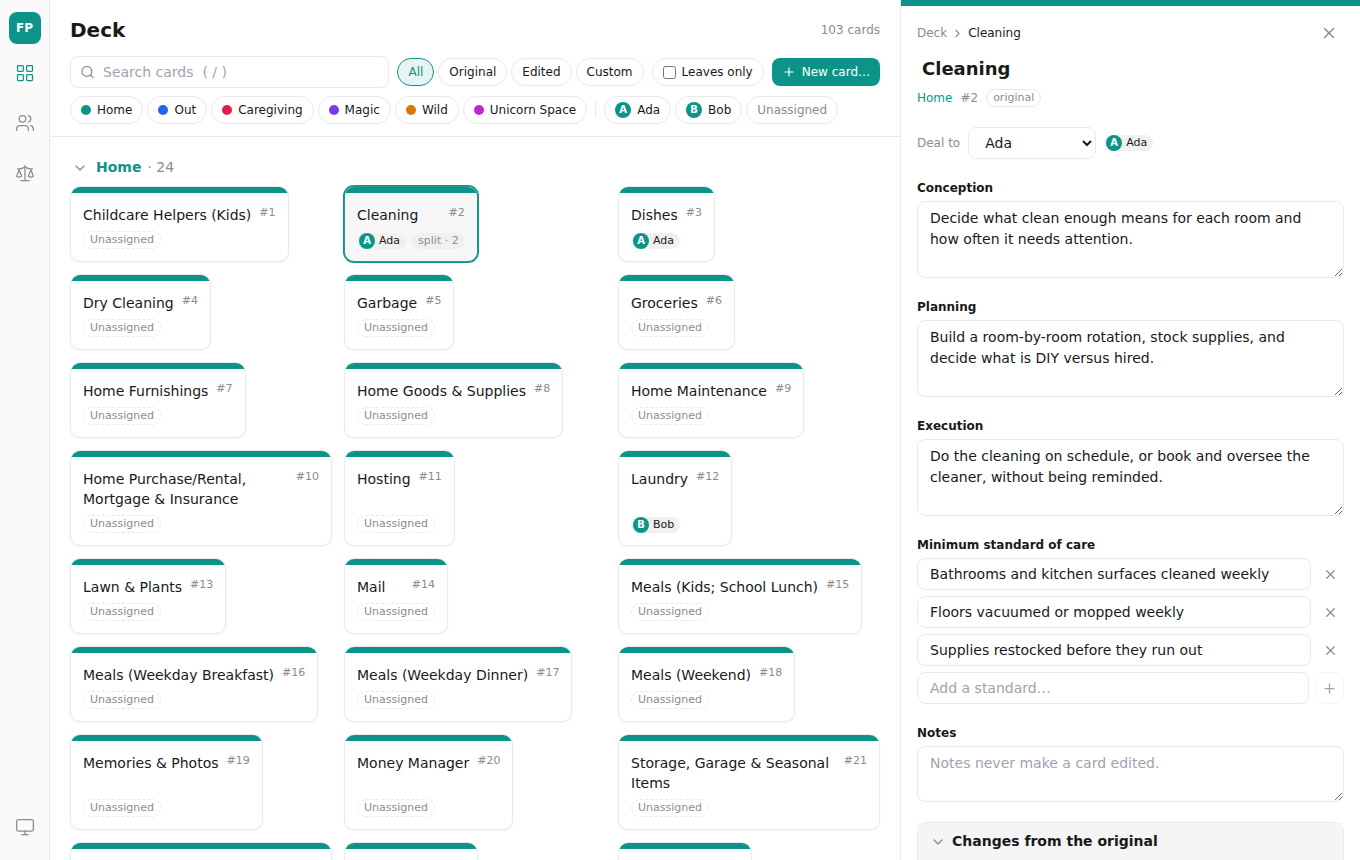
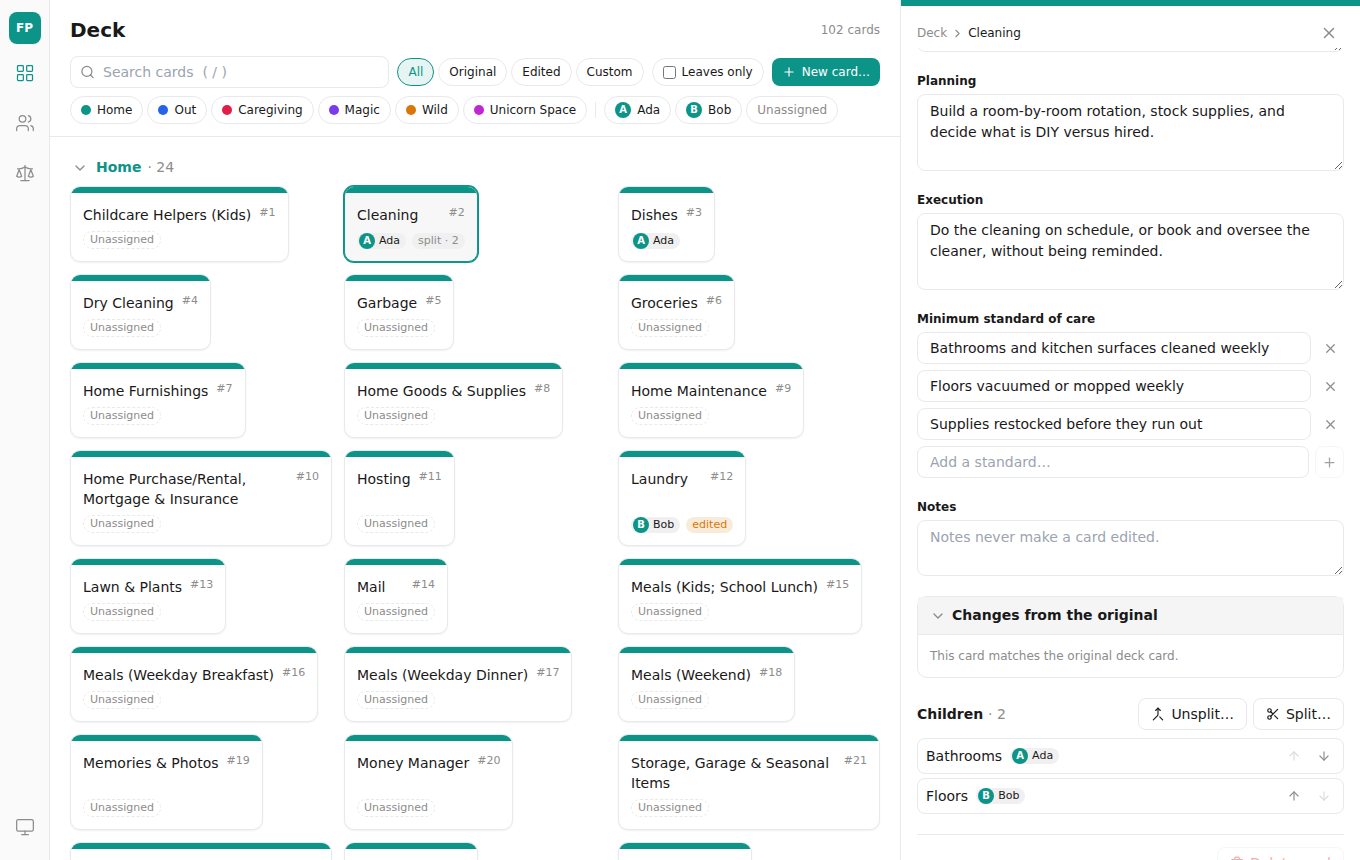
test(rusty_fair_play/web): two tabs, one card, against the real binary; fresh screenshots
Claude-Session: https://claude.ai/code/session_01XZc4rZM6uXrkFSVnLkc54z

diff --git a/crates/apps/rusty_fair_play/web/e2e/flows.spec.ts b/crates/apps/rusty_fair_play/web/e2e/flows.spec.ts
@@ -186,3 +186,46 @@ test('re-parent and re-suit, split, reorder, unsplit, delete a card, and remove 
   await page.reload()
   await expect(page.getByRole('list', { name: 'People' }).getByRole('listitem')).toHaveCount(2)
 })
+
+test('two tabs edit the same card: the second save is refused, its draft is kept, and Overwrite takes it', async ({ browser }) => {
+  const context = await browser.newContext()
+  const one = await context.newPage()
+  const two = await context.newPage()
+  for (const page of [one, two]) {
+    await page.goto('/#/deck')
+    await tile(page, /^Laundry/).click()
+    await expect(pane(page).getByLabel('Name')).toHaveValue('Laundry')
+  }
+
+  // Both tabs have read the card; the first saves its notes.
+  await pane(one).getByLabel('Notes').fill('first tab')
+  await pane(one).getByRole('button', { name: 'Save' }).click()
+  await expect(pane(one).getByRole('button', { name: 'Save' })).toBeHidden()
+
+  // The second tab, still on the old version, saves a different field. The server refuses it.
+  await pane(two).getByLabel('Planning').fill('second tab plan')
+  await pane(two).getByRole('button', { name: 'Save' }).click()
+  await expect(two.getByRole('status')).toContainText('changed elsewhere')
+  await expect(pane(two).getByRole('alert')).toContainText('changed elsewhere')
+  await expect(pane(two).getByLabel('Planning')).toHaveValue('second tab plan') // the draft is kept
+  await expect(pane(two).getByLabel('Notes')).toHaveValue('first tab') // the rest shows the new version
+
+  // Nothing was written by the refused save.
+  await two.reload()
+  await expect(pane(two).getByLabel('Planning')).not.toHaveValue('second tab plan')
+
+  // Typing again and choosing Overwrite lands it on top of the newer card.
+  await pane(two).getByLabel('Planning').fill('second tab plan')
+  await one.reload() // the first tab changes the card again before the second saves
+  await pane(one).getByLabel('Notes').fill('first tab, again')
+  await pane(one).getByRole('button', { name: 'Save' }).click()
+  await expect(pane(one).getByRole('button', { name: 'Save' })).toBeHidden()
+  await pane(two).getByRole('button', { name: 'Save' }).click()
+  await expect(pane(two).getByRole('alert')).toBeVisible()
+  await pane(two).getByRole('button', { name: 'Overwrite' }).click()
+  await expect(pane(two).getByRole('alert')).toBeHidden()
+  await two.reload()
+  await expect(pane(two).getByLabel('Planning')).toHaveValue('second tab plan')
+  await expect(pane(two).getByLabel('Notes')).toHaveValue('first tab, again')
+  await context.close()
+})
